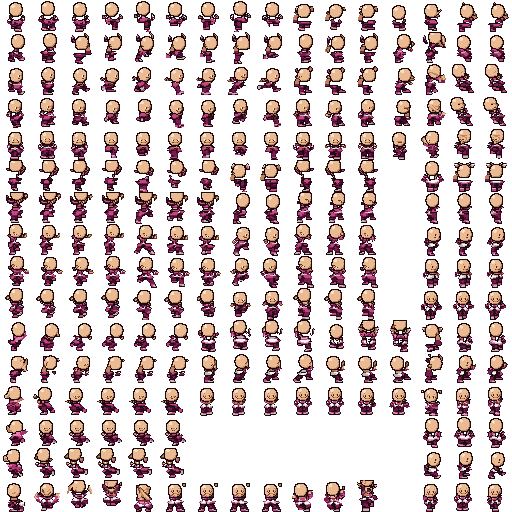
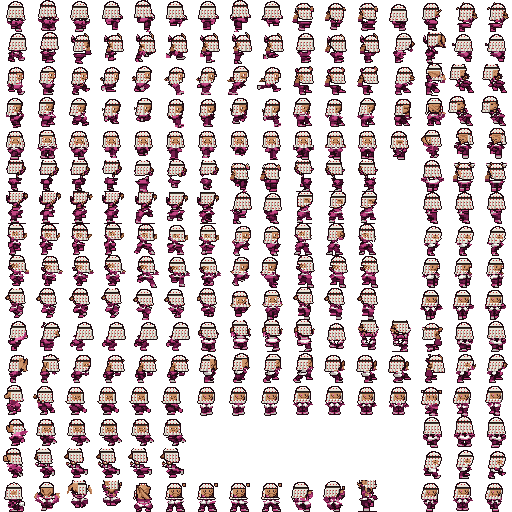
Class looks: beards, cloaks and keffiyehs over the bald heads
misc/hero_skins/accessories.py draws what a class wears on each frame, placed from the head and face that bald_head finds: a full beard from under the eyes to the chest (Fire Mage dark, Berserker red, Frost Mage white, Druid grey; on the face's side only from the side, none from behind), a cloak from the shoulders to the knees (Ranger green, Shadowblade purple, Stormcaller navy; over the back from behind, trailing behind from the side, past the arms from the front), or a keffiyeh to the shoulders round an open face with a dark agal (Mender white, Duelist with a red check). The Bulwark stays a clean-shaven bald knight. The skin is a shade darker so the bald head does not glow under the dungeon's lights.

diff --git a/misc/hero_skins/accessories.py b/misc/hero_skins/accessories.py
@@ -1,0 +1,174 @@
+"""What a class wears over the bald head and the body (make_skins.py): a
+beard, a cloak, or a keffiyeh held by an agal with the face left open.
+
+Each is drawn on one 32-pixel cell from where the head and face are
+(make_skins.bald_head works them out), in final colours that the palette
+step leaves alone, and gets the original's dark outline.
+"""
+import numpy as np
+
+OUTLINE = (29, 9, 16)
+
+
+def outline_new(cell, new):
+    """the dark outline round newly drawn pixels, where they meet nothing"""
+    op = cell[..., 3] > 0
+    near = np.zeros_like(new)
+    for dy, dx in ((1, 0), (-1, 0), (0, 1), (0, -1)):
+        near |= np.roll(np.roll(new, dy, 0), dx, 1)
+    cell[~op & near] = OUTLINE + (255,)
+    return cell
+
+
+def paint(cell, mask, colour):
+    cell[mask] = tuple(colour) + (255,)
+
+
+def facing_of(face, bx):
+    """+1 facing right, -1 facing left, 0 toward the camera, None from
+    behind (no face)"""
+    if face.sum() == 0:
+        return None
+    fx = np.nonzero(face)[1].mean()
+    if fx > bx + 1.2:
+        return 1
+    if fx < bx - 1.2:
+        return -1
+    return 0
+
+
+def beard(cell, info, colours):
+    """a full beard from under the eyes to the chest, the whole width of
+    the face; from the side on the face's side only; none from behind"""
+    face, bx = info['face'], info['bx']
+    side = facing_of(face, bx)
+    if side is None:
+        return cell
+    ys, xs = np.nonzero(face)
+    eyes = info['eye_row']
+    chin = ys.max()
+    left, right = xs.min() - 1, xs.max() + 1
+    if side > 0:
+        left = int(round(bx))
+    if side < 0:
+        right = int(round(bx))
+    area = np.zeros((32, 32), bool)
+    for y in range(eyes + 2, chin + 4):
+        if not 0 <= y < 32:
+            continue
+        taper = max(0, y - chin)
+        lo, hi = left + taper, right - taper
+        if side > 0:
+            lo = left
+        if side < 0:
+            hi = right
+        if lo <= hi:
+            area[y, max(0, lo):min(32, hi + 1)] = True
+    # NOTE: the eyes stay
+    area &= ~np.isin(cell[..., 0], [244, 255])
+    paint(cell, area, colours[1])
+    # NOTE: lit along its top, dark along its bottom edge, a strand or two
+    xx = np.mgrid[0:32, 0:32][1]
+    top = area & ~np.roll(area, 1, 0)
+    bottom = area & ~np.roll(area, -1, 0)
+    paint(cell, area & (xx % 3 == 1) & ~top, colours[0])
+    paint(cell, top & ~bottom, colours[2])
+    paint(cell, bottom, colours[0])
+    return outline_new(cell, area)
+
+
+def cloak(cell, info, colours):
+    """a cloak from the shoulders to the knees: over the back from behind,
+    trailing behind the body from the side, showing past the arms from
+    the front"""
+    op = cell[..., 3] > 0
+    rows = np.nonzero(op.any(1))[0]
+    if len(rows) == 0:
+        return cell
+    feet = rows[-1]
+    shoulder = int(info['by'] + info['ry'] + 0.5)
+    bottom = feet - 4
+    if bottom <= shoulder + 2:
+        return cell
+    span = np.nonzero(op[min(31, shoulder + 2)])[0]
+    if len(span) == 0:
+        return cell
+    left, right = span.min(), span.max()
+    side = facing_of(info['face'], info['bx'])
+    new = np.zeros((32, 32), bool)
+    for y in range(shoulder + 1, bottom + 1):
+        flare = (y - shoulder) // 3
+        if side is None:
+            lo, hi = left - flare // 2, right + flare // 2
+            new[y, max(0, lo):min(32, hi + 1)] = True
+        elif side == 0:
+            lo, hi = left - 1 - flare // 2, right + 1 + flare // 2
+            row = np.zeros(32, bool)
+            row[max(0, lo):min(32, hi + 1)] = True
+            new[y] = row & ~op[y]
+        else:
+            body = np.nonzero(op[y])[0]
+            if len(body) == 0:
+                continue
+            back = body.min() if side > 0 else body.max()
+            reach = 1 + flare
+            xs = range(back - reach, back) if side > 0 else range(back + 1, back + 1 + reach)
+            for x in xs:
+                if 0 <= x < 32 and not op[y, x]:
+                    new[y, x] = True
+    if not new.any():
+        return cell
+    paint(cell, new, colours[1])
+    # NOTE: folds: every third column a shade darker, the hem darkest
+    xx = np.mgrid[0:32, 0:32][1]
+    paint(cell, new & (xx % 3 == 0), colours[0])
+    hem = new & ~np.roll(new, -1, 0)
+    paint(cell, hem, colours[0])
+    lit = new & ~np.roll(new, 1, 0)
+    paint(cell, lit, colours[2])
+    return outline_new(cell, new)
+
+
+def keffiyeh(cell, info, look):
+    """a cloth over the head falling to the shoulders, the face open, held
+    by a dark agal; a checked one has a sparse red grid"""
+    dome, face, bx, by = info['dome'], info['face'], info['bx'], info['by']
+    rx, ry = info['rx'], info['ry']
+    side = facing_of(face, bx)
+    yy, xx = np.mgrid[0:32, 0:32]
+    shoulder = int(by + ry + 0.5)
+    if face.any():
+        fys, fxs = np.nonzero(face)
+        opening = ((yy >= info['eye_row'] - 2) & (yy <= fys.max() + 1) &
+                   (xx >= fxs.min() - 1) & (xx <= fxs.max() + 1))
+    else:
+        opening = np.zeros((32, 32), bool)
+    drape = (yy >= by) & (yy <= shoulder) & (np.abs(xx + 0.5 - bx) <= rx + 0.5)
+    if side:
+        # NOTE: from the side the cloth falls behind the head, not over the face
+        drape &= (xx + 0.5 - bx) * side <= 1
+    cloth = (dome | drape) & ~opening
+    paint(cell, cloth, look['cloth'][1])
+    # NOTE: lit along the crown, a shade darker in the folds that fall
+    paint(cell, cloth & ~np.roll(cloth, 1, 0), look['cloth'][2])
+    paint(cell, cloth & (yy > by) & (xx % 3 == 0), look['cloth'][0])
+    if look.get('check'):
+        paint(cell, cloth & (xx % 3 == 1) & (yy % 3 == 1), look['check'])
+    # NOTE: the agal: a dark cord round the crown, two rows
+    band = int(round(by - ry * 0.45))
+    for k, colour in enumerate(look['agal']):
+        paint(cell, dome & (yy == band + k) & ~opening, colour)
+    return outline_new(cell, cloth)
+
+
+def draw_look(cell, info, look):
+    """everything one class wears, in order: cloak behind, then the head"""
+    if not look:
+        return cell
+    if 'cloak' in look:
+        cell = cloak(cell, info, look['cloak'])
+    if 'beard' in look:
+        cell = beard(cell, info, look['beard'])
+    if 'keffiyeh' in look:
+        cell = keffiyeh(cell, info, look['keffiyeh'])
+    return cell

diff --git a/misc/hero_skins/make_skins.py b/misc/hero_skins/make_skins.py
@@ -16,6 +16,8 @@ usage: python -I make_skins.py <asset_1.zas> <out folder>
 import struct, sys, os
 import numpy as np
 from PIL import Image
+sys.path.insert(0, os.path.dirname(os.path.abspath(__file__)))
+from accessories import draw_look
 
 
 def original_sheet(zas):
@@ -138,7 +140,7 @@ P = {
 EYE = [(40, 24, 30), (70, 44, 50)]
 # NOTE: a man's skin: warm tan in place of the original's pinks, which
 # also takes the blush and the lip colour away
-MALE_SKIN = [(104, 58, 36), (190, 130, 92), (234, 186, 146)]
+MALE_SKIN = [(92, 50, 30), (168, 108, 72), (206, 148, 106)]
 WHITE = (255, 255, 255)
 # NOTE: a patch of skin colour bigger than this is the sword's slash
 # streak, not a hand or a face
@@ -150,7 +152,7 @@ HEAD_ROW_PIXELS = 5
 STREAK = [(1, 2, 3), (4, 5, 6), (7, 8, 9)]
 # NOTE: marker for the bald head's shine, turned into SHINE_RGB
 SHINE = (10, 11, 12)
-SHINE_RGB = (252, 222, 196)
+SHINE_RGB = (232, 184, 146)
 
 
 def components(mask):
@@ -292,7 +294,7 @@ BALD_FACE_LIFT = 2.5
 FACE_Y_MAX = 13.0
 
 
-def bald_head(cell):
+def bald_head(cell, look=None):
     """takes the hair (and the headphones) away and draws a round bald head
     a size smaller in their place, shaded from the upper left, then puts
     the original face (skin, eyes, mouth) back on it"""
@@ -375,6 +377,18 @@ def bald_head(cell):
     rim = dome & ~(np.roll(dome, 1, 0) & np.roll(dome, -1, 0) & np.roll(dome, 1, 1) & np.roll(dome, -1, 1))
     rim &= ~moved
     cell[rim & (cell[..., 3] > 0)] = OUTLINE + (255,)
+    # NOTE: what the class wears (accessories.py), placed from the head
+    # and the face
+    whites = np.nonzero(is_col(cell, [WHITE]) & moved)[0]
+    if len(whites):
+        eye_row = whites.min()
+    elif face_patch:
+        eye_row = fy.min() - lift + 1
+    else:
+        eye_row = by
+    info = {'bx': bx, 'by': by, 'rx': BALD_RX, 'ry': BALD_RY, 'dome': dome,
+            'face': moved, 'eye_row': eye_row}
+    cell = draw_look(cell, info, look)
     # NOTE: the streak keeps marker colours from here on, so the new head
     # it may touch is never taken for it
     for src, mark in zip(SKIN, STREAK):
@@ -404,7 +418,7 @@ def despeck(cell):
 
 
 def class_cell(cell, pal):
-    cell = thicken_legs(trim_hips(widen(bald_head(cell))))
+    cell = thicken_legs(trim_hips(widen(bald_head(cell, LOOKS.get(pal.get('name'))))))
     h = head_of(cell)
     out = cell.copy()
     yy, xx = np.mgrid[0:32, 0:32]
@@ -470,6 +484,23 @@ def class_cell(cell, pal):
     return despeck(out)
 
 
+# NOTE: what each class wears over the bald head (accessories.py); the
+# Bulwark stays a clean-shaven bald knight
+LOOKS = {
+    'firemage': {'beard': [(40, 20, 14), (74, 40, 26), (108, 64, 40)]},
+    'berserker': {'beard': [(92, 26, 10), (156, 52, 22), (206, 92, 44)]},
+    'frostmage': {'beard': [(150, 160, 176), (212, 220, 232), (250, 252, 255)]},
+    'druid': {'beard': [(88, 82, 72), (140, 132, 116), (190, 184, 168)]},
+    'ranger': {'cloak': [(20, 44, 28), (34, 72, 44), (60, 110, 70)]},
+    'shadowblade': {'cloak': [(18, 12, 28), (40, 28, 62), (72, 52, 108)]},
+    'stormcaller': {'cloak': [(12, 18, 46), (26, 40, 92), (52, 76, 150)]},
+    'mender': {'keffiyeh': {'cloth': [(176, 172, 160), (232, 228, 216), (252, 250, 244)],
+                            'agal': [(40, 30, 26), (80, 62, 40)]}},
+    'duelist': {'keffiyeh': {'cloth': [(176, 172, 160), (232, 228, 216), (252, 250, 244)],
+                             'check': (186, 38, 48), 'agal': [(30, 22, 22), (66, 48, 40)]}},
+}
+
+
 def class_sheet(sheet, pal):
     """every 32-pixel cell of the sheet, in place of the original's"""
     out = sheet.copy()
@@ -486,5 +517,5 @@ if __name__ == '__main__':
     sheet = original_sheet(zas)
     os.makedirs(out, exist_ok=True)
     for name, pal in P.items():
-        Image.fromarray(class_sheet(sheet, pal)).save(os.path.join(out, f'{name}.png'), optimize=True)
+        Image.fromarray(class_sheet(sheet, dict(pal, name=name))).save(os.path.join(out, f'{name}.png'), optimize=True)
         print(name)
